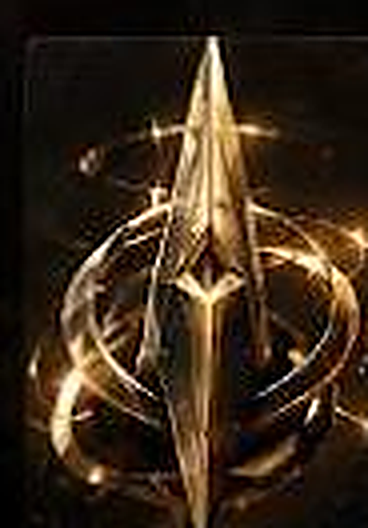
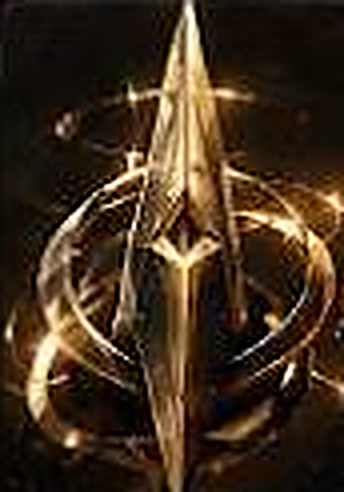
R33: trim baked dark borders from HD rank art; tone-matched card background and feathered art mask in PremiumShowcase

diff --git a/src/components/premium-showcase.tsx b/src/components/premium-showcase.tsx
@@ -3,7 +3,7 @@
 import Image from "next/image";
 import { useRef, type PointerEvent } from "react";
 import { interpolate } from "@/lib/i18n";
-import { RANK_TIERS, rankIllustratedAsset } from "@/lib/ranks";
+import { PREMIUM_ART_META, RANK_TIERS, rankIllustratedAsset } from "@/lib/ranks";
 import "./premium-showcase.css";
 
 export type PremiumShowcaseLabels = {
@@ -48,6 +48,14 @@ export function PremiumShowcase({
   const card = useRef<HTMLDivElement>(null);
   const dims = SIZES[size];
   const alt = interpolate(labels.artAlt, { rank: tier.name });
+  const meta = PREMIUM_ART_META[tier.level];
+  // Contain-fit box with the art's exact ratio inside the 92:132 glass (max 96% wide, 97% tall), so the feather mask follows the real image edges.
+  const cardRatio = 92 / 132;
+  const artRatio = meta ? meta.w / meta.h : cardRatio;
+  const box =
+    artRatio < cardRatio
+      ? { height: "97%", width: `${((97 * artRatio) / cardRatio).toFixed(2)}%` }
+      : { width: "96%", height: `${((96 * cardRatio) / artRatio).toFixed(2)}%` };
 
   const onMove = (event: PointerEvent<HTMLDivElement>) => {
     if (event.pointerType !== "mouse" || !card.current) return;
@@ -68,7 +76,11 @@ export function PremiumShowcase({
   return (
     <figure
       className={`ace-pshow is-${size}`}
-      style={{ ["--pshow-w" as string]: `${dims.w}px`, ["--pshow-tone" as string]: TONE[tier.level] }}
+      style={{
+        ["--pshow-w" as string]: `${dims.w}px`,
+        ["--pshow-tone" as string]: TONE[tier.level],
+        ["--pshow-art-bg" as string]: meta?.tone ?? "#0a0a0a",
+      }}
       data-tier={tier.level}
     >
       <div className="ace-pshow-stage">
@@ -76,7 +88,9 @@ export function PremiumShowcase({
         <div ref={card} className="ace-pshow-card" onPointerMove={onMove} onPointerLeave={onLeave}>
           <div className="ace-pshow-bezel">
             <div className="ace-pshow-glass">
-              <Image className="ace-pshow-art" src={src} alt={alt} fill sizes={dims.sizes} unoptimized />
+              <span className="ace-pshow-artbox" style={box}>
+                <Image className="ace-pshow-art" src={src} alt={alt} fill sizes={dims.sizes} unoptimized />
+              </span>
               <span className="ace-pshow-sheen" aria-hidden="true" />
               <span className="ace-pshow-gloss" aria-hidden="true" />
             </div>
@@ -88,7 +102,9 @@ export function PremiumShowcase({
             <div className="ace-pshow-reflection" aria-hidden="true">
               <div className="ace-pshow-bezel">
                 <div className="ace-pshow-glass">
-                  <Image className="ace-pshow-art" src={src} alt="" fill sizes={dims.sizes} unoptimized />
+                  <span className="ace-pshow-artbox" style={box}>
+                    <Image className="ace-pshow-art" src={src} alt="" fill sizes={dims.sizes} unoptimized />
+                  </span>
                 </div>
               </div>
             </div>

diff --git a/src/components/premium-showcase.css b/src/components/premium-showcase.css
@@ -100,3 +100,18 @@
 }
 .ace-pshow-beam { top: 0; bottom: 0; height: auto; -webkit-mask-image: linear-gradient(180deg, transparent 0%, #000 25%, #000 55%, transparent 88%); mask-image: linear-gradient(180deg, transparent 0%, #000 25%, #000 55%, transparent 88%); }
 .ace-pshow-reflection { -webkit-mask-image: linear-gradient(0deg, rgba(0, 0, 0, 0.85) 0%, rgba(0, 0, 0, 0.3) 12%, transparent 24%); mask-image: linear-gradient(0deg, rgba(0, 0, 0, 0.85) 0%, rgba(0, 0, 0, 0.3) 12%, transparent 24%); opacity: 0.4; }
+
+/* R33: art blends into the glass. Glass takes the art's own edge tone; the art box has the image's exact ratio
+   and a soft edge feather (no hard inner rectangle). The whole emblem stays inside (contain, never cropped). */
+.ace-pshow-glass {
+  background:
+    radial-gradient(75% 60% at 50% 45%, color-mix(in srgb, var(--pshow-art-bg) 70%, var(--pshow-tone) 8%), var(--pshow-art-bg) 70%, color-mix(in srgb, var(--pshow-art-bg) 70%, #000) 100%);
+}
+.ace-pshow-artbox {
+  position: absolute; left: 50%; top: 50%; translate: -50% -50%; display: block;
+  -webkit-mask-image: linear-gradient(90deg, transparent 0, #000 9%, #000 91%, transparent 100%), linear-gradient(180deg, transparent 0, #000 4%, #000 96%, transparent 100%);
+  -webkit-mask-composite: source-in;
+  mask-image: linear-gradient(90deg, transparent 0, #000 9%, #000 91%, transparent 100%), linear-gradient(180deg, transparent 0, #000 4%, #000 96%, transparent 100%);
+  mask-composite: intersect;
+}
+.ace-pshow-glass .ace-pshow-artbox .ace-pshow-art, .ace-pshow.is-sm .ace-pshow-glass .ace-pshow-artbox .ace-pshow-art { object-fit: fill; padding: 0; }

diff --git a/src/lib/ranks.ts b/src/lib/ranks.ts
@@ -184,6 +184,23 @@ export function rankIllustratedAsset(level: number): RankEmblemAsset {
   };
 }
 
+/**
+ * HD Premium art metadata (generated with the HD files): pixel size after trimming only the baked-in
+ * near-black bars, and the median edge tone used as the showcase glass background so the art blends in.
+ */
+export const PREMIUM_ART_META: Record<number, { tone: string; w: number; h: number }> = {
+  1: { tone: "#040507", w: 320, h: 492 },
+  2: { tone: "#0f0806", w: 332, h: 492 },
+  3: { tone: "#130e0c", w: 368, h: 492 },
+  4: { tone: "#090909", w: 368, h: 492 },
+  5: { tone: "#16120f", w: 336, h: 492 },
+  6: { tone: "#171009", w: 344, h: 492 },
+  7: { tone: "#0b1013", w: 340, h: 492 },
+  8: { tone: "#070b17", w: 352, h: 492 },
+  9: { tone: "#0c0811", w: 344, h: 492 },
+  10: { tone: "#1c110b", w: 368, h: 528 },
+};
+
 export function rankArtAsset(level: number, art: RankArt): RankEmblemAsset {
   return art === "premium" ? rankIllustratedAsset(level) : rankEmblemAsset(level);
 }
